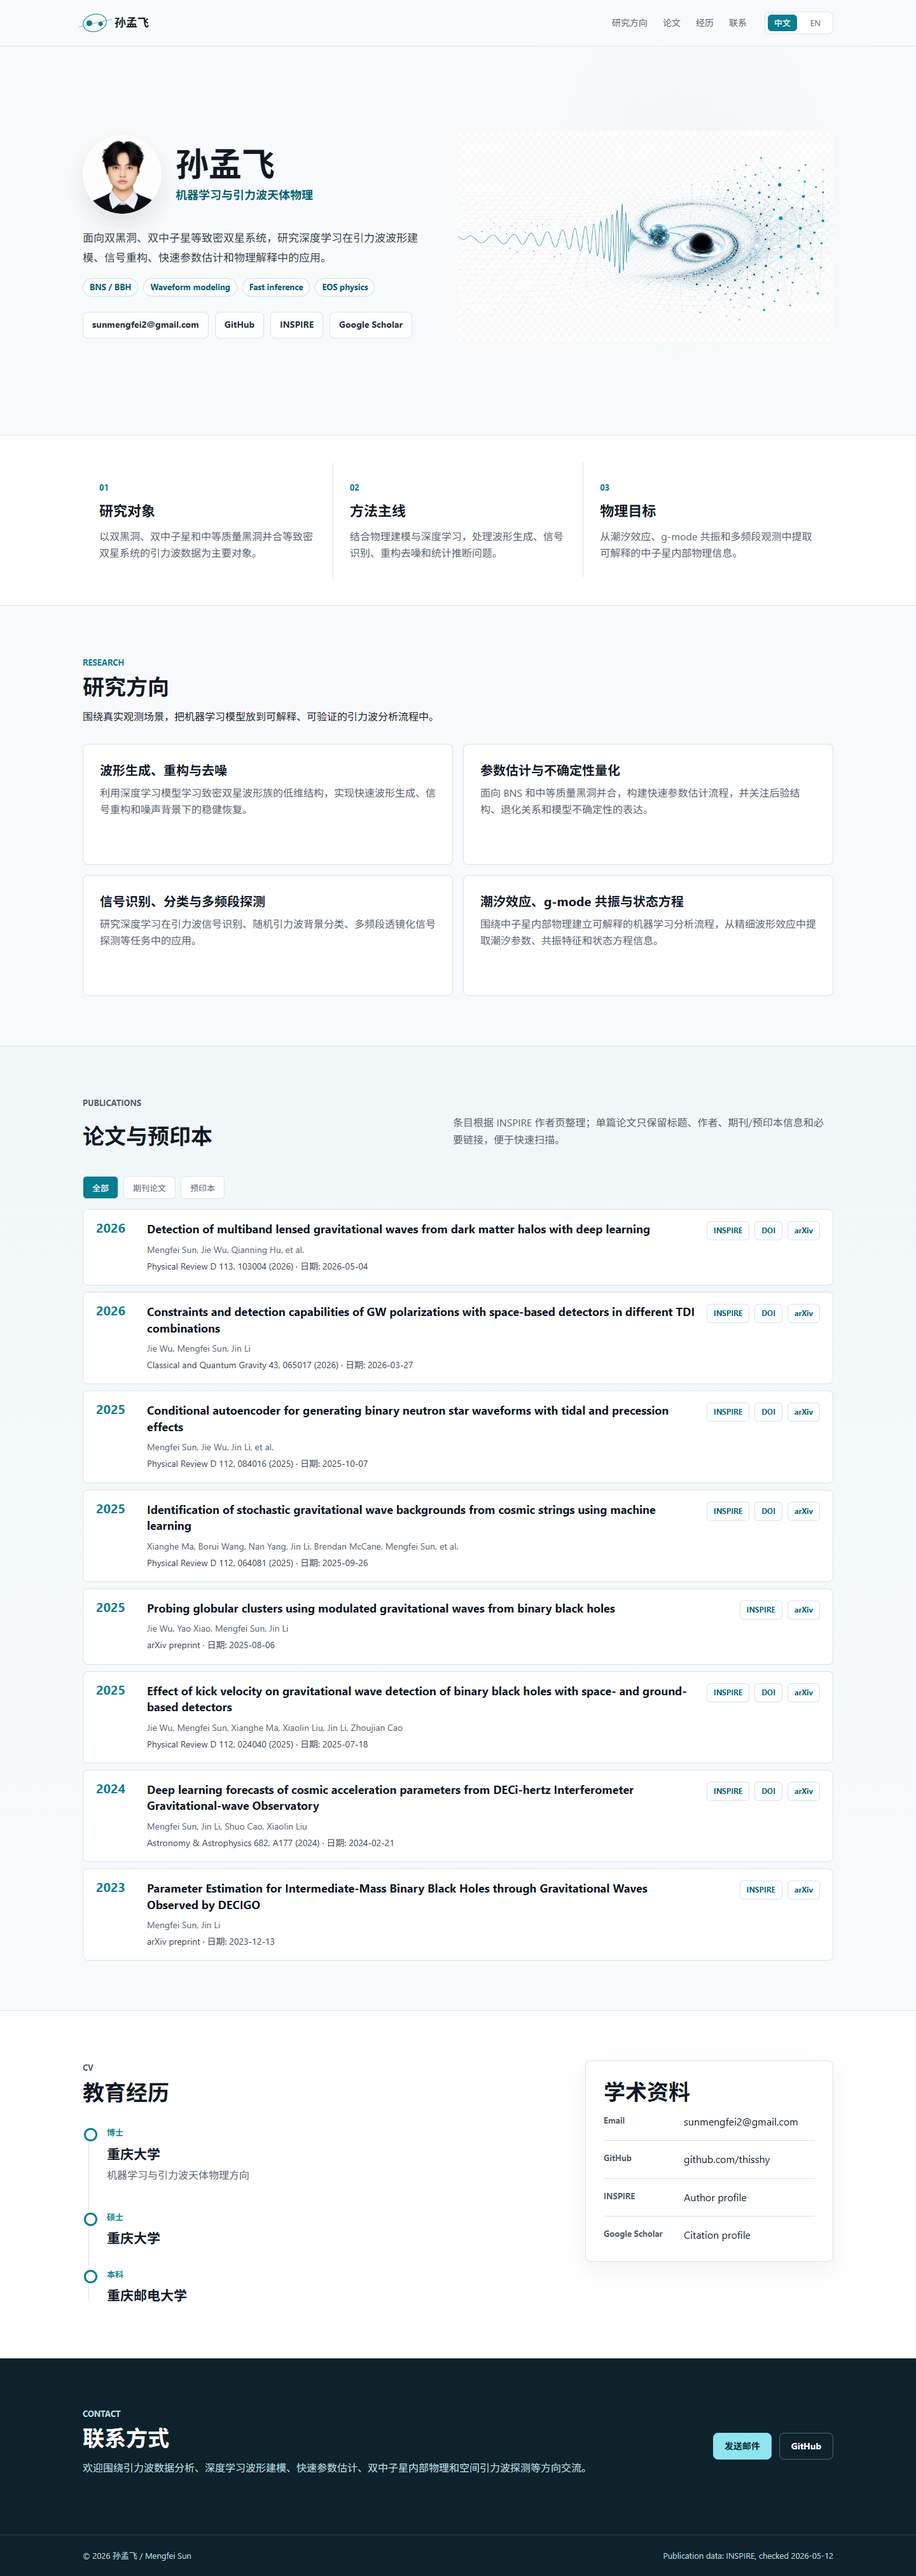
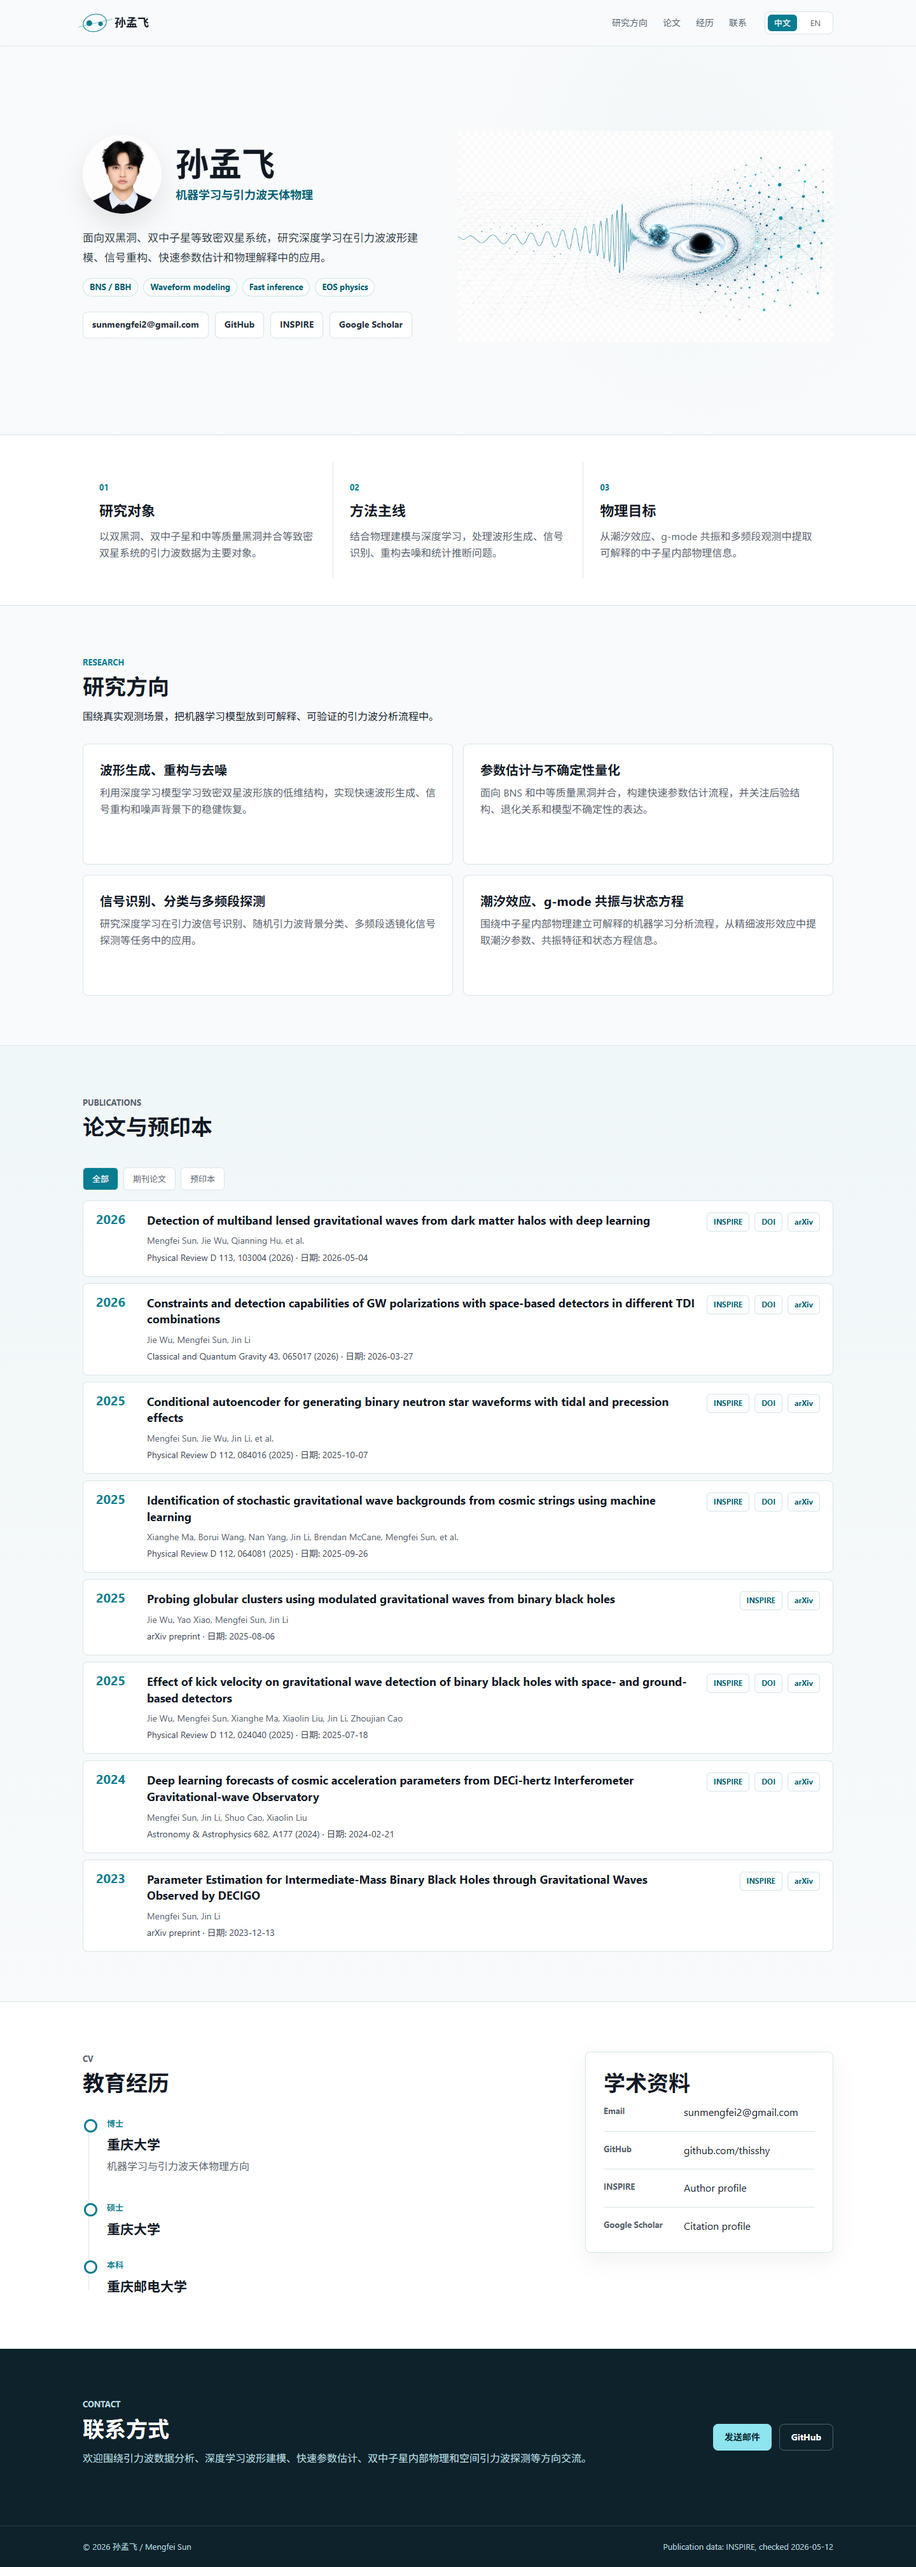
1

diff --git a/index.html b/index.html
@@ -165,8 +165,6 @@
             <p class="section-kicker">Publications</p>
             <h2 data-lang="zh">论文与预印本</h2>
             <h2 data-lang="en">Publications and Preprints</h2>
-            <p data-lang="zh">条目根据 INSPIRE 作者页整理；单篇论文只保留标题、作者、期刊/预印本信息和必要链接，便于快速扫描。</p>
-            <p data-lang="en">Entries are summarized from the INSPIRE author profile, keeping each item to title, authors, venue/preprint information, and essential links.</p>
           </div>
           <div class="publication-toolbar">
             <button class="filter-button active" type="button" data-filter="all" data-i18n="filterAll">全部</button>
